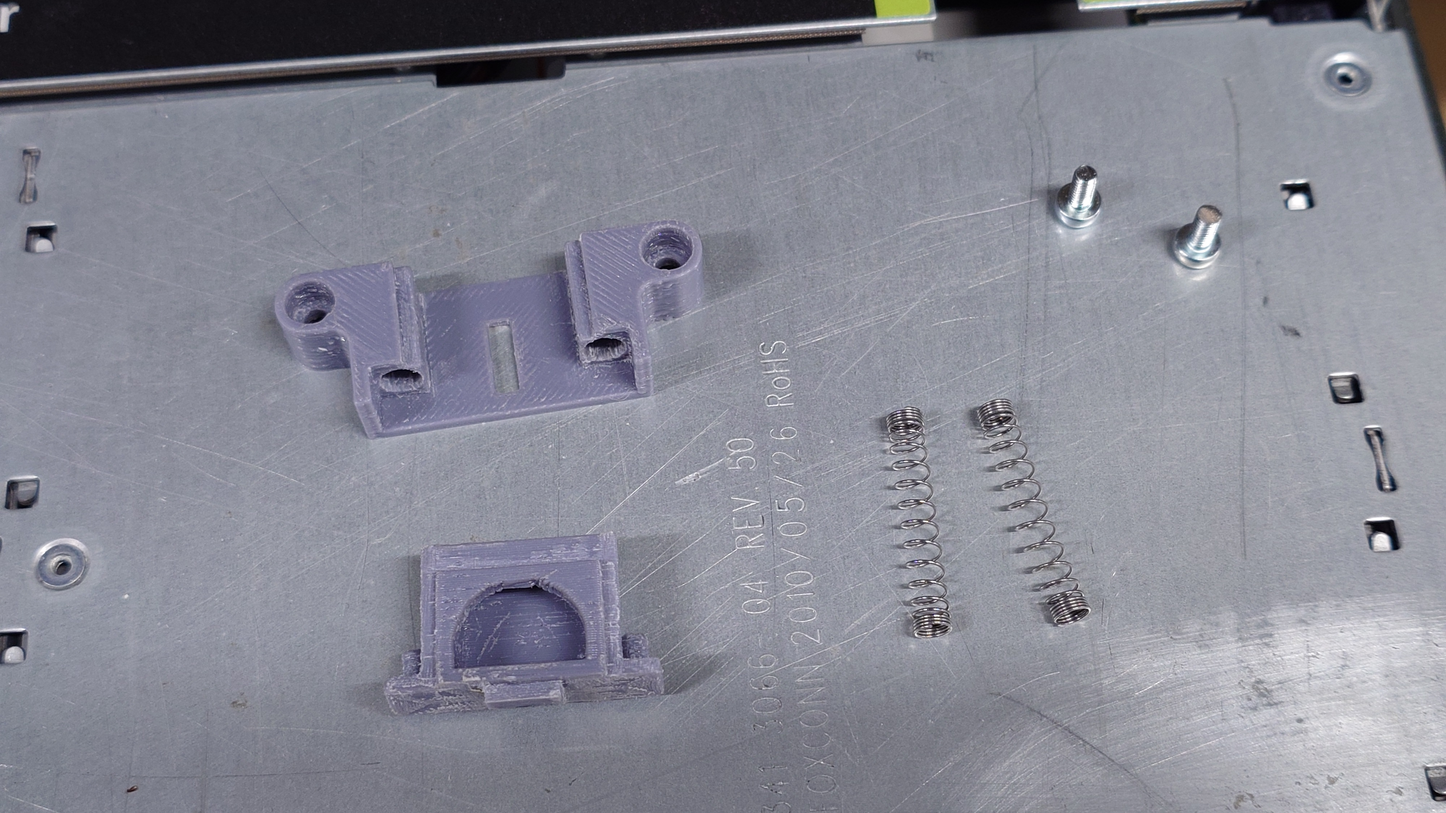
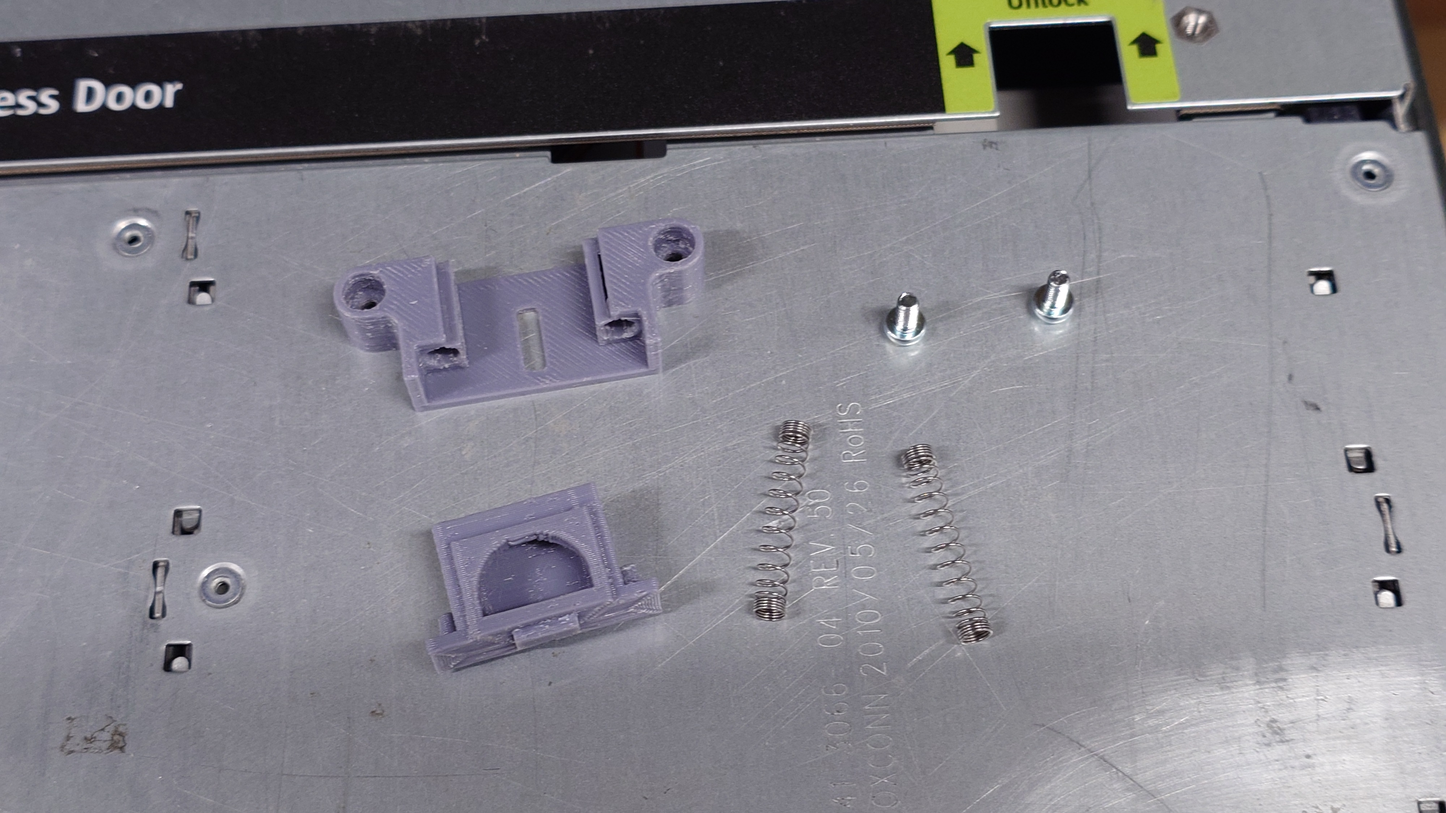
update real pics

diff --git a/README.md b/README.md
@@ -10,6 +10,8 @@ Printable replacement top cover latch parts for SUN / Oracle SPARC Enterprise T5
 ![](pics/T5120_mounting_site.jpg)  
 ![](pics/T5120_all_parts.jpg)  
 ![](pics/T5120_printed_installed.jpg)  
+![](pics/T5120_new-in-old.jpg)  
+![](pics/T5120_old-in-new.jpg)  
 ![](pics/T5120_printed_latched.jpg)  
 ![](pics/T5120_both_latched.jpg)  
 
